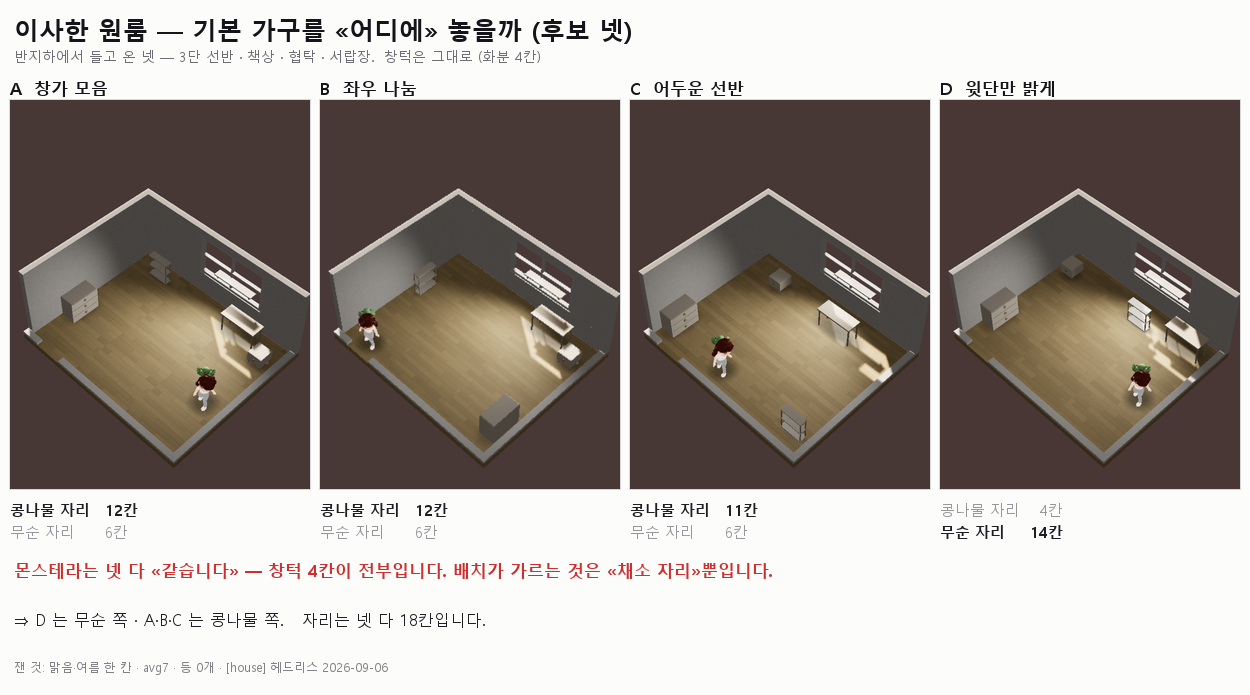
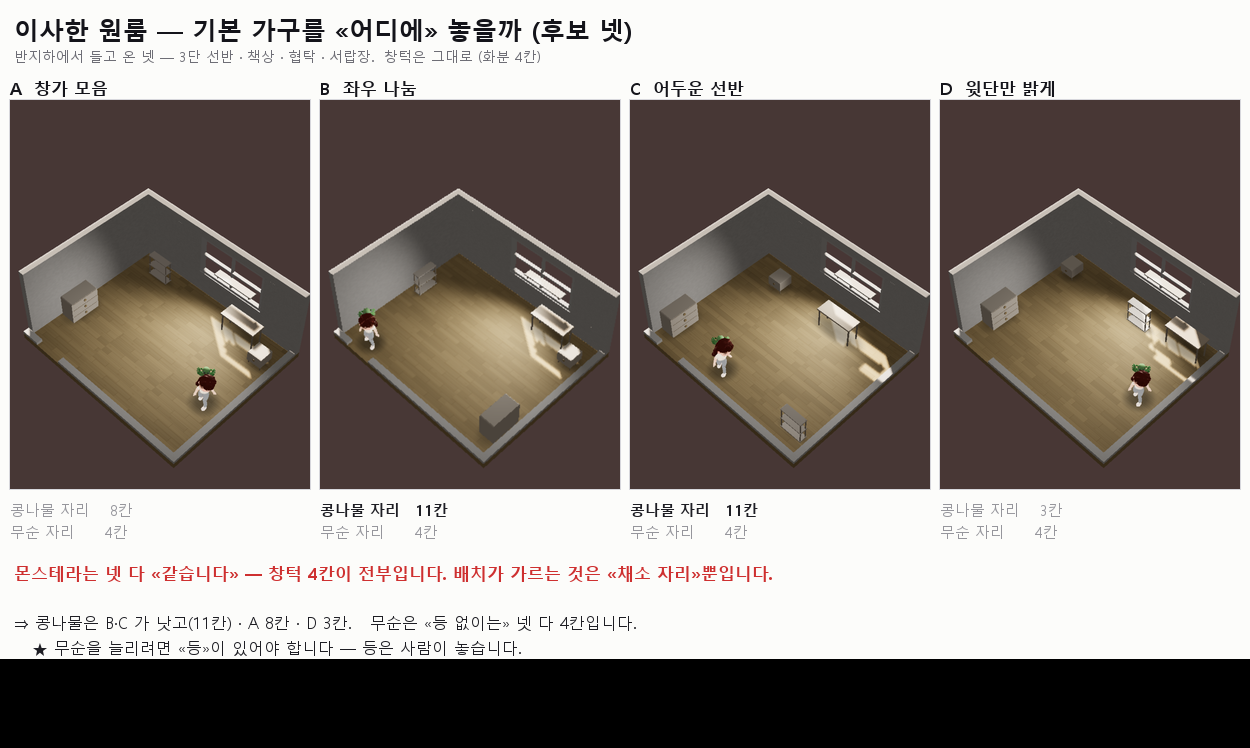
[asset] ④ 화분 색 배선 설계 · ① 그림 수를 real 400일로 고침
④ 「어느 칸이 색을 갖나 · 누가 읽나」 — 코드가 아니다. 붙일 코드는
   pots-to-plan.md §5 에 이미 있다. 그때 인계문에 안 적힌 둘만 답했다.
   ★ 색은 칸이 하나다(potAsset). 에셋 경로가 곧 종류이자 색이라 세이브에 새 칸이 안 난다.
   ★★ 색은 지름을 안 바꾼다(colors[] 에 diameterM 이 없다 — 재서 확인).
     ⇒ 밸런스를 한 톨도 안 건드린다.
   ★★★ 읽는 자리 넷 중 끊긴 것은 둘이고 사실은 한 자리다 — 「고르는 화면」이 없다.

① house 가 짚어 줘서 그림 수를 바꿨다 — 맑음·여름 peak → ★ real 400일([growth]).
   콩나물 12/12/11/4 → 8/11/11/3 · 무순 6/6/6/14 → 4/4/4/4.
   ★ 무순이 제일 크게 바뀐다 — 등 없이는 넷 다 4칸이다. D 도 등을 켜야 14 다.
   그 한 줄을 밑에 넣었다.

diff --git a/docs/assets/pot_color_wiring.md b/docs/assets/pot_color_wiring.md
@@ -1,0 +1,109 @@
+# 화분 «색»이 어느 칸에 살고 누가 읽나 — 배선 설계 (2026-09-06 · leaf)
+
+⛔ **코드가 아니다.** 붙일 코드는 `docs/handoff/pots-to-plan.md §5` 에 **이미 있다**(2026-08-08 · [Asset]).
+이 문서는 총괄이 물은 둘만 답한다 — **「어느 칸이 색을 갖나」 · 「누가 읽나」**.
+그것이 그때 인계문에 **안 적혀 있던 것**이고, 그래서 붙이는 쪽이 안 집었을 수 있다.
+
+## ⚠ 먼저 — 지금 상태
+
+```
+색 판 GLB    ★ 9장 있다 (민트 151° · 핑크 343° × 4갈래 + 사각 2장)
+표           ★ shop.js POT_KINDS[].colors 에 «제대로» 있다
+게임         ⛔ «절대 못 만난다» — 아래 §2 의 다리 하나가 끊겨 있다
+깃 내력      ⇒ 「한 번도 안 붙였다」. game.html 에 들어간 적이 «없다»(git log -S)
+```
+
+---
+
+# ① 어느 칸이 «색»을 갖나 — **단 하나. `potAsset` 이다**
+
+```
+pot.potAsset : string        예) 'pots/pot_concrete_round_c1.glb'
+```
+
+★ **색은 «따로 된 칸»이 아니다.** 에셋 «경로»가 곧 종류이자 색이다.
+⇒ 그래서 색을 더해도 **세이브에 새 칸이 안 는다.** `save.js §packPot` 이 이미 `potAsset` 을 왕복시킨다.
+
+## ⇒ ★★ 그 하나가 왜 «충분»한가 — **되짚는 표가 이미 있다**
+
+```
+potKindOfAsset(asset)   → 종류 (concrete_round …)
+potColorOfAsset(asset)  → 색   (base / mint / pink)
+potDiameterOf(asset)    → ★ 지름. «자리 판정이 쓰는 유일한 창구». 모르면 «던진다»
+knowsPotAsset(asset)    → 아나 (매 프레임 그리는 데가 먼저 물어본다)
+```
+⇒ `POT_ASSET_INDEX` 가 `colors` 까지 통째로 싣는다 — **민트 화분도 제 종류를 안다.**
+
+## ⇒ ★★★ 그리고 **색은 지름을 안 바꾼다** — 이것이 이 일을 «싸게» 만든다
+
+```
+diameterM 은 «갈래»에만 있다  — nursery 0.1314 · concrete_round 0.1801 · terracotta 0.2010
+                              ceramic 0.2020 · concrete_square 0.2755
+colors[] 안에는 diameterM 이 «없다»   ⇐ 재서 확인했다
+```
+> ⇒ ★ **색만 바꾸는 것은 «언제나 된다».** 자리를 한 칸도 못 잃는다.
+> ⇒ ⇒ 그러니 색 배선은 **밸런스를 한 톨도 안 건드린다.** 모양(갈래)을 바꾸는 것과 «다른 일»이다.
+
+---
+
+# ② 누가 읽나 — **네 자리. 그중 «하나»가 끊겨 있다**
+
+| # | 누가 | 무엇을 | 지금 |
+|---|---|---|---|
+| ㉠ | `state.js:477` | 화분을 만들 때 `potAsset: potKind.asset` 을 심는다 | ⛔ **늘 «기본» 에셋이다.** 색이 여기서 안 들어간다 |
+| ㉡ | `save.js §packPot` | `potAsset` 을 세이브에 싣고 되싣는다 | ✔ 이미 왕복한다 |
+| ㉢ | `room_view.js:2019·2256` | 방을 조립할 때 `spec.potAsset` 을 보고 `swapPotMesh` | ✔ 색 GLB 를 «그릴 줄 안다» |
+| ㉣ | `shop.js potKindList()` | 표를 화면에 내준다(색 포함) | ⛔ **게임이 «안 부른다».** 검사(`tools/test_pots.mjs`)만 부른다 |
+
+> ## ⇒ ★★★ **끊긴 것은 ㉠·㉣ 둘이고, 사실은 «한 자리»다 — 「사람이 색을 고르는 화면」이 없다.**
+> ⇒ ㉡㉢ 은 **이미 돈다.** 색을 심어 주기만 하면 세이브도 화면도 따라온다.
+
+⚠ 그리고 **㉢ 은 「조립할 때」 한 번만 돈다.** 상태만 바꾸고 다시 그리면 «안 갈린다» —
+  내가 그것으로 판을 세 번 버렸다(2026-08-29). ⇒ 색을 바꾸면 **방을 다시 조립해야** 한다
+  (`roomView.setRoom(id)` 이 그 문이다).
+
+---
+
+# ③ 원룸에서 무엇이 달라지나
+
+```
+반지하   자리 15칸 · 화분 넷을 놓을 만한 자리가 넉넉하다
+원룸     ★ 자리 «4칸»(창턱)에서 시작한다 — 후보 넷 다 채소 자리만 는다
+⇒ ★★ 그러니 원룸에서 «보이는 화분»은 사실상 «넷»이다
+⇒ ⇒ 색이 4개짜리 창턱에 나란히 서면 «한눈에 견줘진다» — 반지하보다 «더» 보인다
+```
+★ 그리고 폰에서 읽히는지 재 뒀다 — **읽힌다**(23px 에서 초록앞섬 30 · 붉음앞섬 50 · `leaf_map.md`).
+⚠ 다만 그것은 **썸네일을 방 밝기로 눕힌 «시늉»**이다. 게임에서 «본 것»이 아니다.
+  ⇒ ⛔ 배선이 서면 **그때 실제로 찍어서 봐야 한다.** 그 전에는 「읽힌다」를 굳은 수로 쓰지 마라.
+
+---
+
+# ④ ⛔ 이 일에서 «하지 말 것»
+
+```
+⛔ 판정을 두 벌 만들지 마라 — canSwapPot 이 «유일한» 판정이다.
+   화면이 따로 판정하면 「단추는 켜져 있는데 누르면 거절」이 된다
+⛔ 지름을 화면이 «지어내지» 마라 — potDiameterOf 가 유일한 창구다. 모르는 에셋은 «던진다»
+⛔ 색을 새 칸으로 만들지 마라 — potAsset 하나면 된다. 칸이 늘면 세이브가 갈린다
+⛔ 상태만 바꾸고 다시 그리지 마라 — 방을 «다시 조립»해야 메시가 갈린다(§②-㉢)
+```
+
+## ⇒ ⚠ 그리고 «내가 못 정하는 것»
+
+```
+· 색 화분을 «따로 팔까» 같은 값에 얹을까 ⇒ ★ 값이다. [Plan]·박사님
+· 상점에 언제 보일까(몬스테라 도착 뒤?)   ⇒ pots-to-plan §5-3 이 문턱을 이미 제안했다
+· 색을 «몇 개» 낼까                       ⇒ 지금 갈래마다 3판(기본·민트·핑크). 모양은 5갈래
+```
+
+---
+
+# ⑤ 붙일 때 볼 것 — 순서
+
+```
+① pots-to-plan.md §5-1 ~ §5-4 를 그대로 집는다  ⇐ ★ 새로 짜지 마라. 이미 적혀 있다
+② ㉠ 에 색을 심는 길을 낸다                      ⇐ 사람이 고른 색을 potAsset 으로
+③ 방을 «다시 조립»한다                           ⇐ setRoom. 안 하면 안 갈린다
+④ ★ 실제로 찍어서 본다                           ⇐ tools/leaf/_shot_potcolor.mjs 가 있다.
+   그 자는 «받은 GLB 이름을 그물로 잡는다» — 「색이 갈렸다」를 짐작으로 안 낸다
+```
